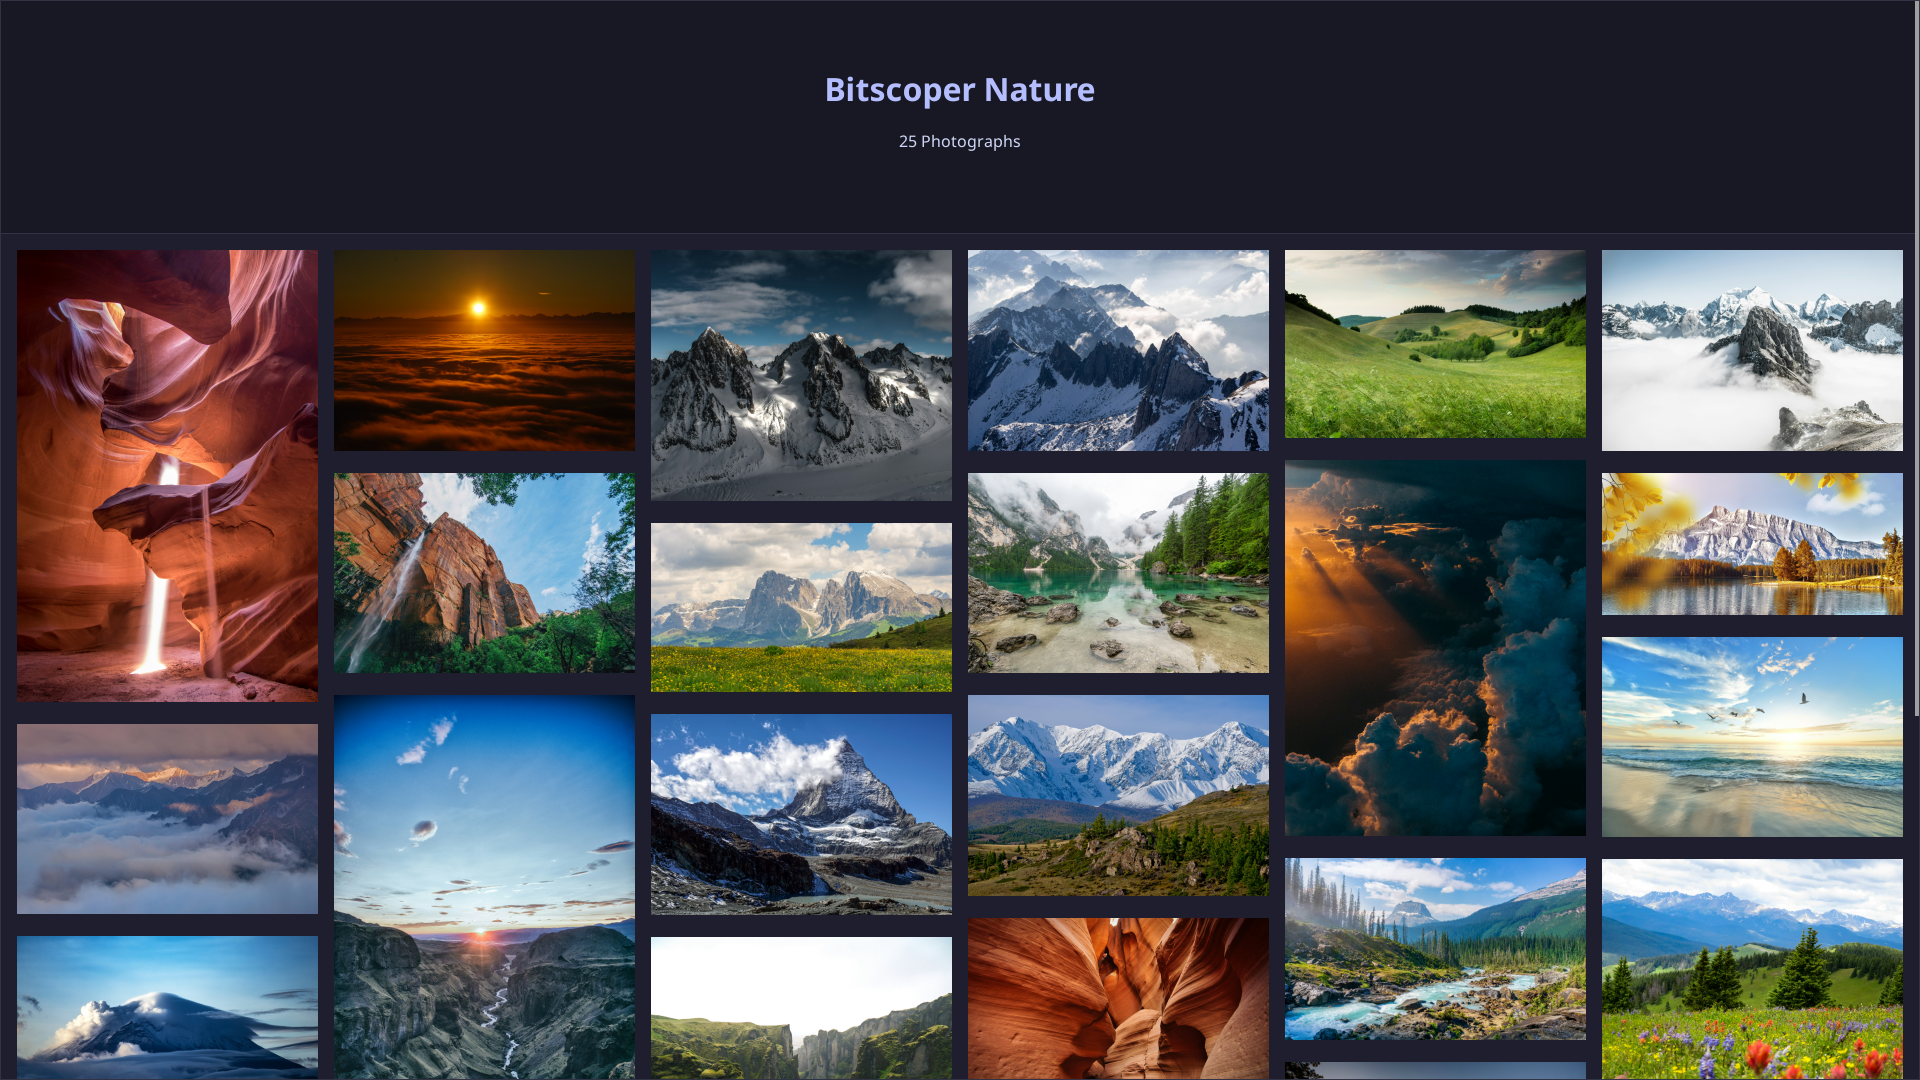
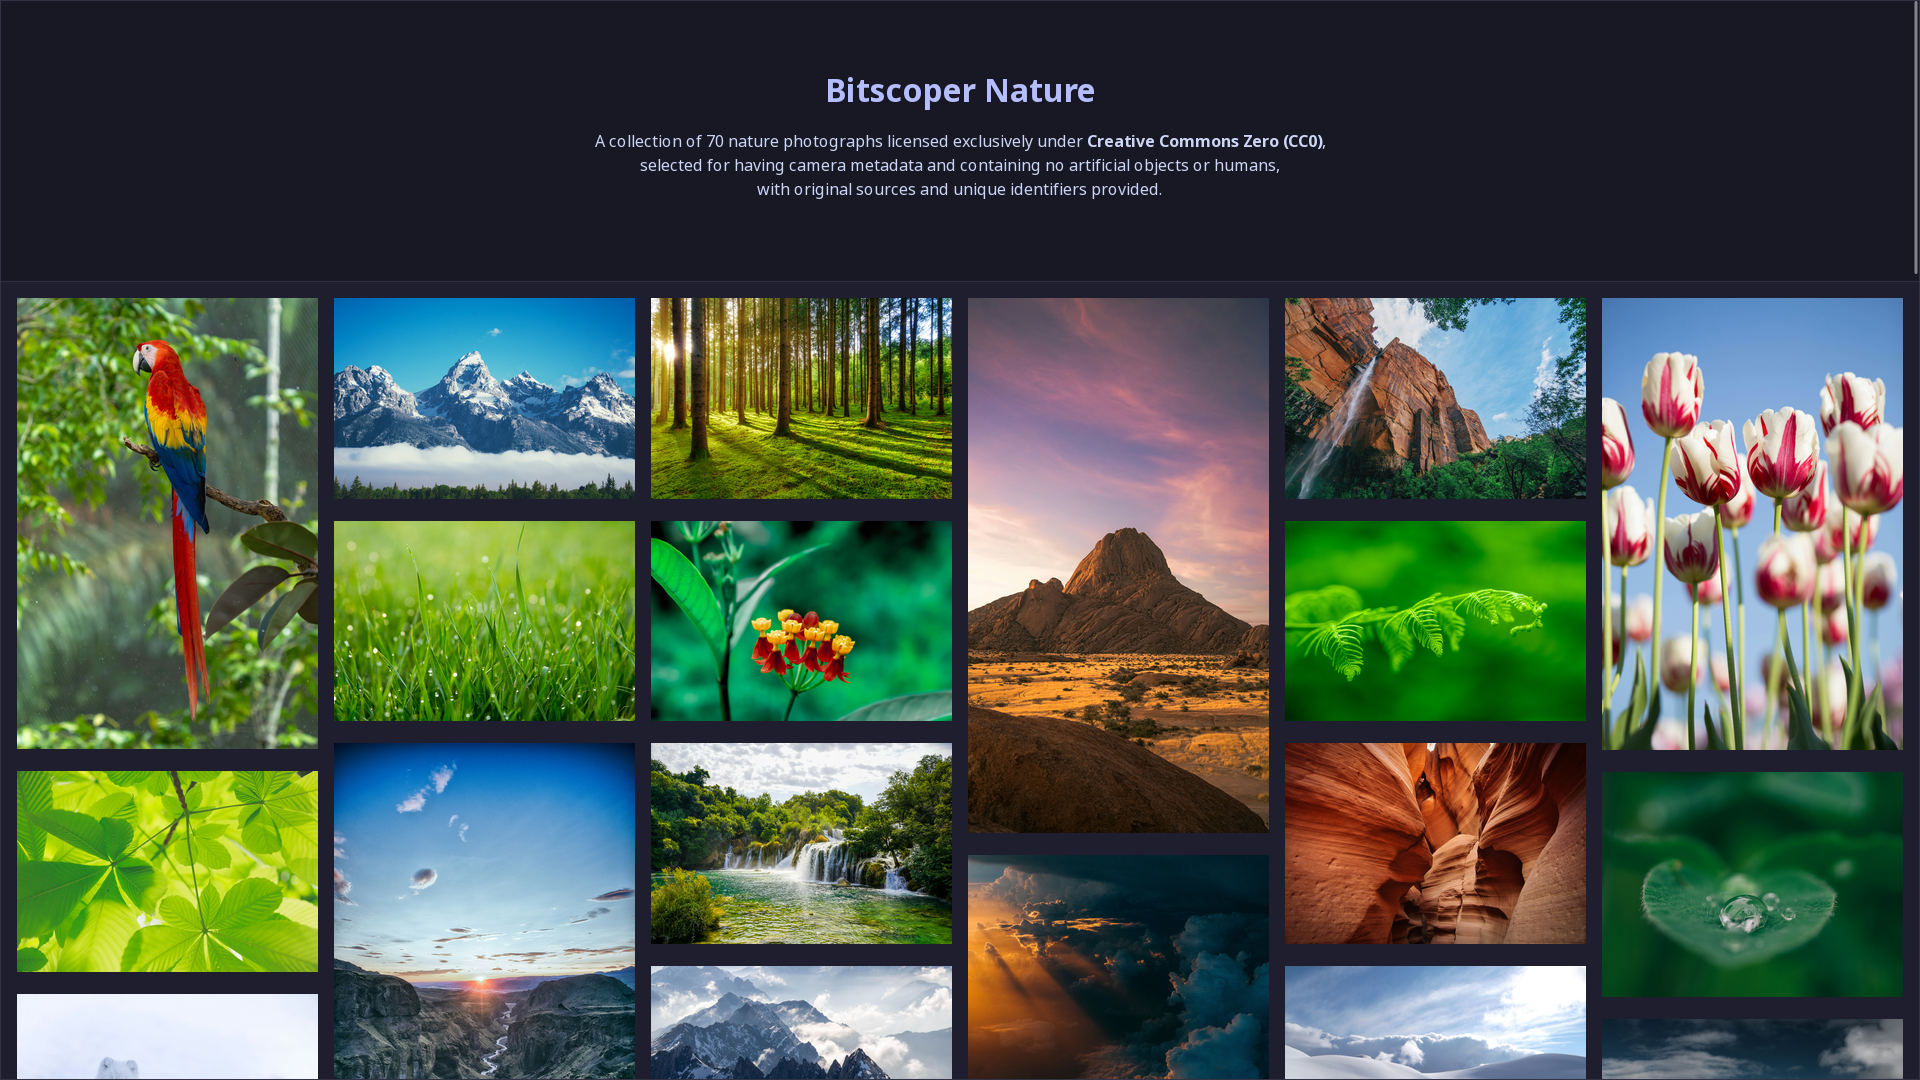
Added Description in Header; and Updated Screenshots.

diff --git a/Template.html b/Template.html
@@ -81,8 +81,32 @@
       }
 
       main header p {
-        margin: 1rem;
+        display: block;
+        margin: 1rem auto 1rem auto;
         color: var(--text);
+      }
+
+      @media (max-width: 768px) {
+        main header p br {
+          display: none;
+        }
+
+        main header p br::after {
+          content: " ";
+        }
+      }
+
+      main header p a {
+        text-decoration: none;
+        font-weight: bold;
+        color: var(--text);
+        cursor: pointer;
+        transition: color 0.2s;
+      }
+
+      main header p a:hover,
+      main header p a:focus {
+        color: var(--lavender);
       }
 
       main article {
@@ -138,7 +162,9 @@
     <main>
       <header>
         <h1>Bitscoper Nature</h1>
-        <p id="counts" />
+        <p>
+          A collection of <span id="counts" /> nature photographs licensed exclusively under <a href="https://creativecommons.org/publicdomain/zero/" title="Creative Commons Zero (CC0)" target="_blank">Creative Commons Zero (CC0)</a>,<br />selected for having camera metadata and containing no artificial objects or humans,<br />with original sources and unique identifiers provided.
+        </p>
       </header>
       <article />
       <footer>

diff --git a/index.php b/index.php
@@ -170,14 +170,12 @@ if (
             }
         }
 
-        $counts_p_element = $dom_document->getElementById("counts");
-        if ($counts_p_element !== null) {
-            clear_dom_node($counts_p_element);
+        $counts_span_element = $dom_document->getElementById("counts");
+        if ($counts_span_element !== null) {
+            clear_dom_node($counts_span_element);
 
-            $counts_p_element->appendChild(
-                $dom_document->createTextNode(
-                    count($photographs) . " Photographs"
-                )
+            $counts_span_element->appendChild(
+                $dom_document->createTextNode(strval(count($photographs)))
             );
         }
 
